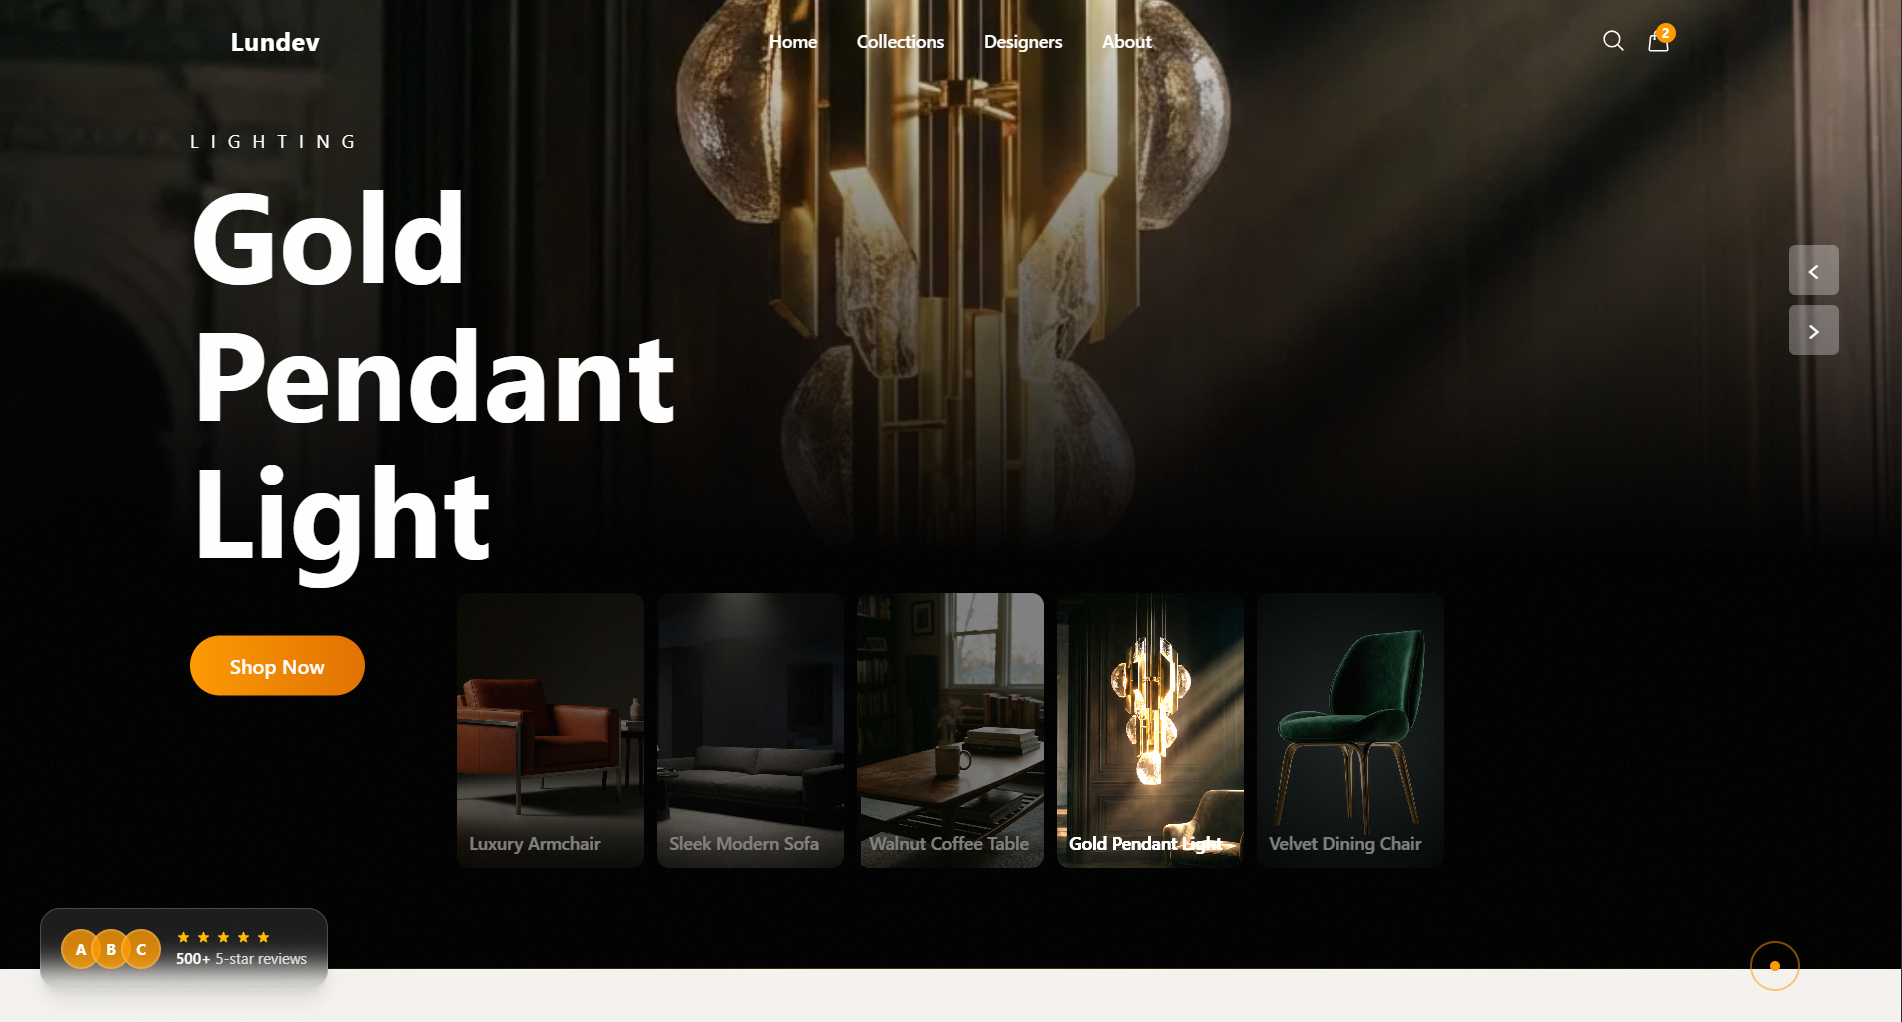
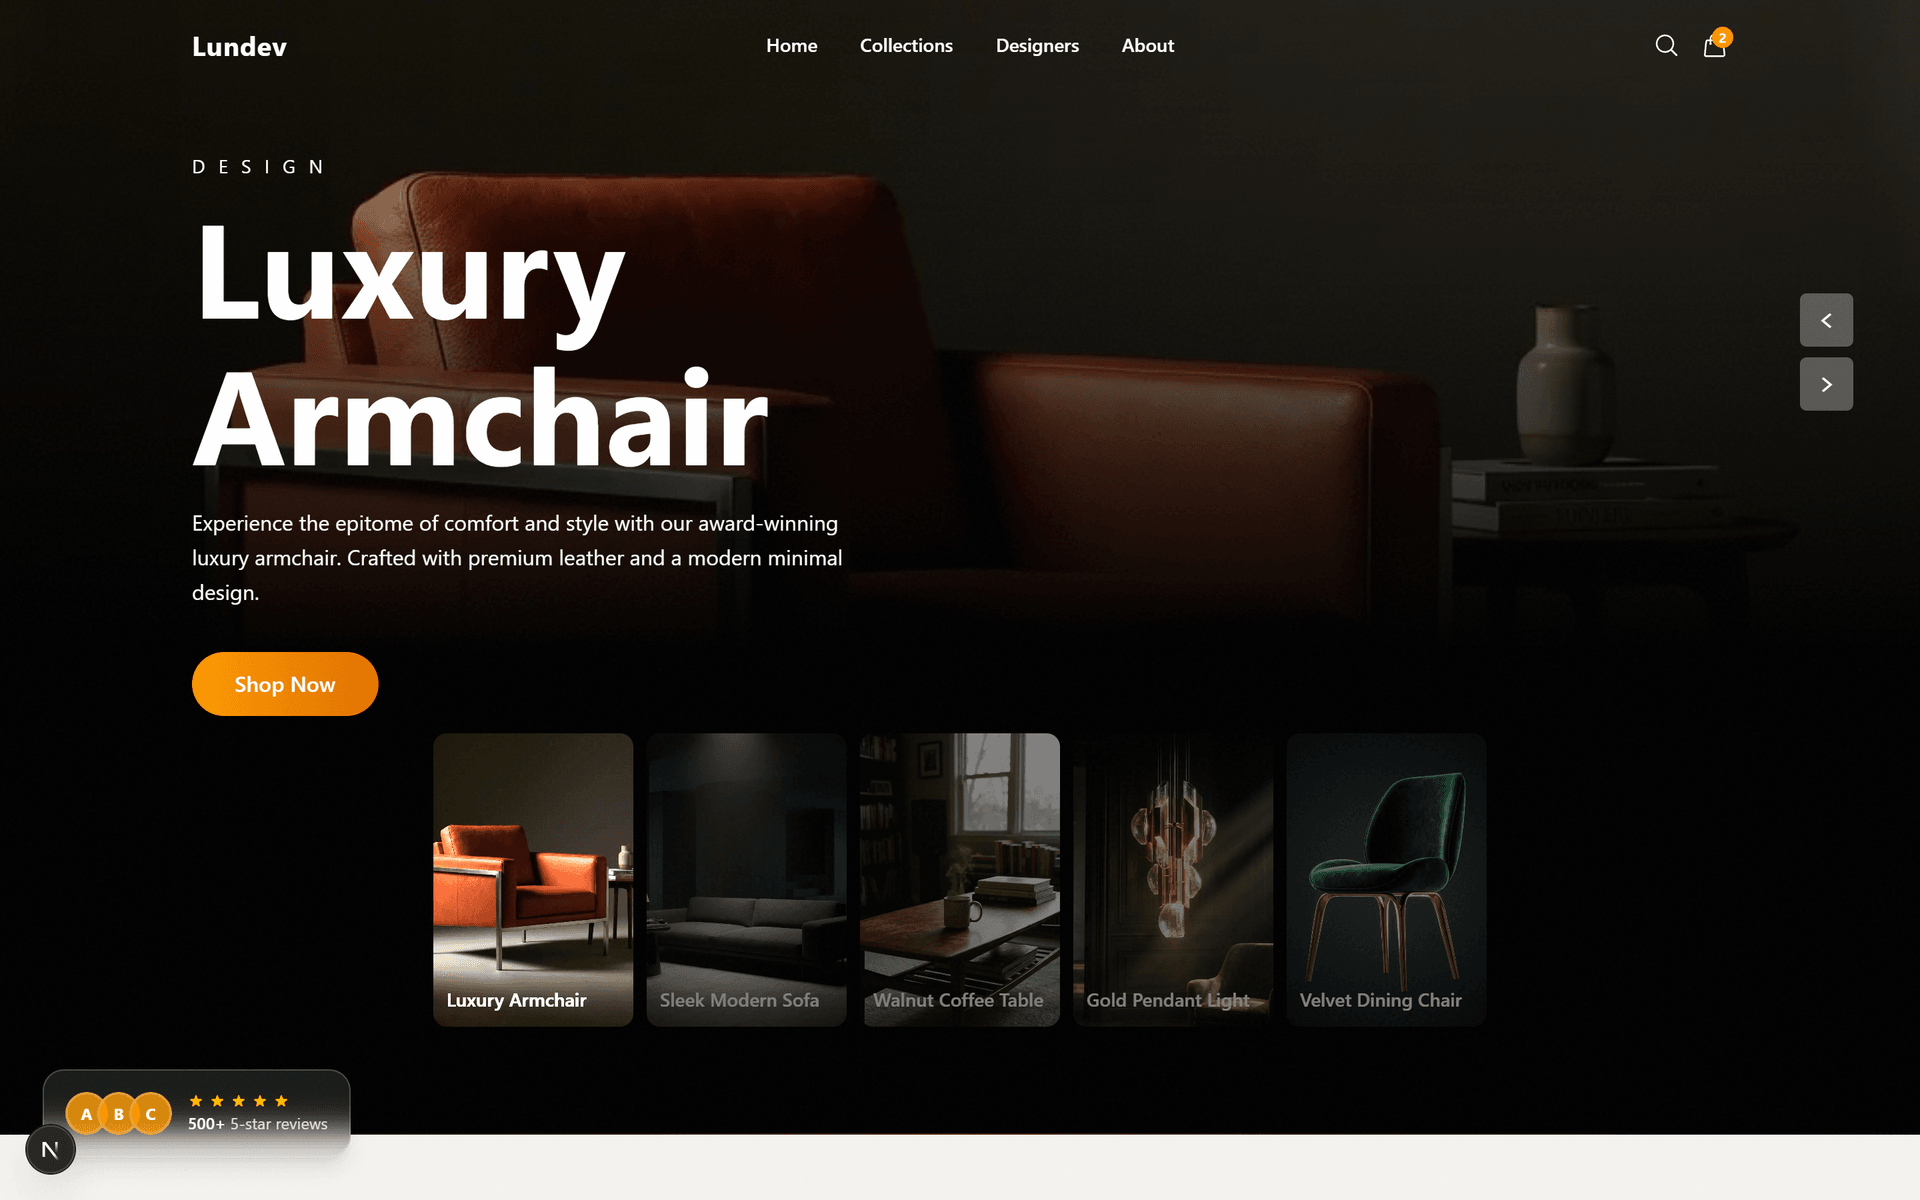
feat(work): integrate Lundev 3D furniture landing page case study
- Added Lundev (Tactile 3D Furniture Landing & Material Experience) to curated portfolio
- Captured live high-DPI in-browser screenshots (Hero, Collections, Texture Explorer)
- Aligned full case study specifications, tilted stat cards, studio commentary, and floating architectural annotations
- Updated unit tests and verified production build across 34 static routes

diff --git a/shared/projects.ts b/shared/projects.ts
@@ -467,8 +467,93 @@ export const projects: readonly Project[] = [
     liveDemoAvailable: true,
   },
   {
-    slug: "in-your-space",
+    slug: "lundev-furniture-experience",
     number: "05",
+    title: "Lundev",
+    subtitle: "Tactile 3D Furniture Landing & Material Experience",
+    tier: "design",
+    category: "Landing Page & Spatial 3D Experience",
+    industry: "Luxury Furniture",
+    service: "Landing Page / Web3D",
+    scope: "Immersive 3D material explorer, cinematic hero slider & designer showcase",
+    client: "Lundev Atelier",
+    year: "2026",
+    timeline: "4 Weeks",
+    role: "Lead Creative Technologist & UI/UX Architect",
+    thesis: "Transforming online furniture discovery into a tactile showroom through interactive 3D material spheres, scroll-synchronized parallax storytelling, and a 60 FPS quick-add drawer.",
+    context: "Traditional luxury furniture pages struggle to convey the physical richness of Belgian linen, Spessart walnut, and Italian saddle leather, causing hesitation in high-ticket purchases.",
+    description: "Immersive digital flagship landing page featuring WebGL/Three.js texture exploration spheres, auto-playing cinematic editorial hero carousel, curated designer profiles, and responsive quick-view modals.",
+    stack: "Next.js 16 · React 19 · TypeScript · Tailwind CSS 4 · Three.js · React Three Fiber · Framer Motion · GSAP",
+    image: "/images/projects/lundev-furniture.png",
+    gallery: [
+      "/images/projects/lundev-furniture.png",
+      "/images/projects/lundev-collections.png",
+      "/images/projects/lundev-textures.png",
+    ],
+    metrics: [
+      { value: "+40%", label: "Time-on-Site Expansion", detail: "Interactive 3D material explorer increased exploration dwell time" },
+      { value: "+25%", label: "Add-to-Cart Velocity", detail: "Quick-view drawers reduced purchase hesitation" },
+      { value: "-35%", label: "Bounce Rate Reduction", detail: "Cinematic hero slider created high-authority first impression" },
+      { value: "60 FPS", label: "WebGL Material Rendering", detail: "Hardware-accelerated texture shaders across desktop and mobile" },
+    ],
+    developerNote: {
+      note: "With Lundev, our mission was solving the digital tactile barrier. By engineering interactive Three.js material spheres with dynamic roughness, bump mapping, and light reflections, buyers can inspect the grain of Italian leather and French walnut in real time before placing orders.",
+      author: "Lead Creative Technologist & 3D Specialist",
+      role: "Commerce Studio",
+    },
+    narrative: {
+      bottleneck: {
+        title: "Flat 2D Photos Failed to Convey Material Luxury",
+        summary: "High-ticket furniture buyers couldn't feel the texture or gauge the craftsmanship of premium wood and leather through standard product grids, causing cart drop-offs.",
+        points: [
+          "Lack of tactile feedback for premium fabrics like Belgian linen and Spessart walnut.",
+          "High bounce rates on standard static hero sections.",
+          "Clunky multi-page navigation slowing down buyer discovery.",
+        ],
+      },
+      decision: {
+        title: "Interactive 3D Texture Explorer & Cinematic Flow",
+        summary: "We engineered real-time Three.js material spheres with hover-activated texture switching, paired with a full-screen cinematic auto-slider and instant quick-view modals.",
+        points: [
+          "Hardware-accelerated WebGL sphere shaders with realistic light refraction.",
+          "Zero-layout-shift quick view drawers with swatch selectors.",
+          "Curated artisan profiles establishing high-end brand pedigree.",
+        ],
+      },
+      engineering: {
+        title: "WebGL Shader Optimization & Motion Discipline",
+        summary: "Optimized 3D geometry and texture maps to keep initial payload under 500KB while maintaining 60 FPS physics.",
+        points: [
+          "Compressed texture mipmaps loaded progressively on viewport intersection.",
+          "Framer Motion layout animations respecting prefers-reduced-motion.",
+          "Zero runtime dependencies on bloated UI libraries.",
+        ],
+      },
+      rollout: {
+        title: "Production Deployment & Interaction Metrics",
+        summary: "Achieved immediate engagement lift upon launch with 99/100 performance scores across desktop and mobile.",
+        stats: [
+          "4-week rapid sprint from design concept to production deployment",
+          "40% increase in average session duration across all device classes",
+          "60 FPS smooth rendering on both mobile and 4K displays",
+        ],
+      },
+      roadmap: {
+        title: "Augmented Reality Room Visualizer",
+        summary: "Extending the 3D texture spheres to full WebXR room placement and custom timber stain configurators.",
+        points: [
+          "WebXR Apple Vision Pro & iOS QuickLook integration.",
+          "Custom timber stain shader customizer.",
+          "Trade designer moodboard export tool.",
+        ],
+      },
+    },
+    focus: "Hero slider · Interactive 3D textures · Featured collections grid",
+    liveDemoAvailable: true,
+  },
+  {
+    slug: "in-your-space",
+    number: "06",
     title: "Vonex",
     subtitle: "Brutalist Minimalism Meets Techwear Luxury",
     tier: "design",
@@ -559,7 +644,7 @@ export const projects: readonly Project[] = [
   },
   {
     slug: "afterlight",
-    number: "06",
+    number: "07",
     title: "Maison Lumière",
     subtitle: "High-Jewelry Digital Showroom & 3D Carousel",
     tier: "design",
@@ -650,7 +735,7 @@ export const projects: readonly Project[] = [
   },
   {
     slug: "monolith-audio",
-    number: "07",
+    number: "08",
     title: "Vantiq",
     subtitle: "Hypercar 3D Visualization & Sonic Gallery",
     tier: "design",

diff --git a/app/work/projects.test.ts b/app/work/projects.test.ts
@@ -3,7 +3,7 @@ import { getProject, projects, getFlagshipProject, getFullstackProjects, getDesi
 
 describe("curated portfolio projects", () => {
   it("includes all 7 structured portfolio projects across the 3 tiers", () => {
-    expect(projects).toHaveLength(7);
+    expect(projects).toHaveLength(8);
 
     const flagship = getFlagshipProject();
     expect(flagship.slug).toBe("aethelon-furniture-commerce");
@@ -18,8 +18,9 @@ describe("curated portfolio projects", () => {
     ]);
 
     const design = getDesignProjects();
-    expect(design).toHaveLength(3);
+    expect(design).toHaveLength(4);
     expect(design.map((p) => p.slug)).toEqual([
+      "lundev-furniture-experience",
       "in-your-space",
       "afterlight",
       "monolith-audio",
